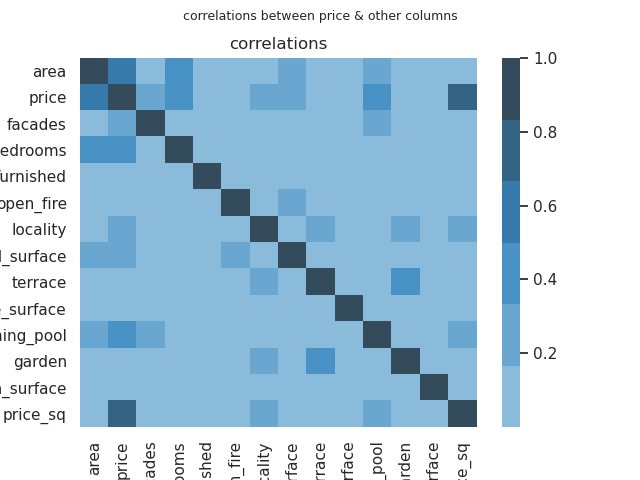
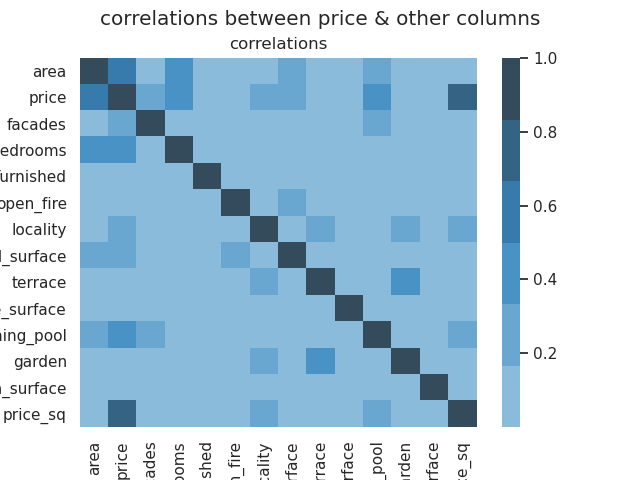
refactoring plots

Changed region(s): [[0.1562, 0.0, 0.8438, 0.0625]]

diff --git a/main.py b/main.py
@@ -1,4 +1,5 @@
 from dfops import DfOps
+from dfops import ChartMaker as Chart
 import numpy as np
 import pandas as pd
 
@@ -10,7 +11,7 @@ def main():
     immo_df_ops = DfOps(df_houses, 20, 15)
 
     # renaming columns for easy of use
-    d_rename_cols_old_new = {
+    rename_cols_old_new_d = {
         "Area [m²]": "area",
         "Price [€]": "price",
         "state of the building": "building_state",
@@ -26,7 +27,7 @@ def main():
         "subtype of property": "property_subtype",
         "garden surface [m²]": "garden_surface"
     }
-    immo_df_ops.rename_columns_dict(d_rename_cols_old_new)
+    immo_df_ops.rename_columns_dict(rename_cols_old_new_d)
     # todo: strip NaN's in facades, area, open_fire
 
     ## pre-processing - keep all NaN values here!
@@ -37,6 +38,7 @@ def main():
     # count nans in rows
     percent_nan_values = df_houses.isna().sum() * 100 / len(df_houses)
     df_nan_values = pd.DataFrame({"nans_percentage": percent_nan_values})
+    df_non_zero_nan_columns = df_nan_values[df_nan_values["nans_percentage"] > 0]
 
     ## processing - data cleaning after having the NaN count
 
@@ -61,7 +63,6 @@ def main():
 
     # drop duplicate rows
     df_houses.drop_duplicates()
-
 
     # convert columns to float
     to_float_columns = ["facades", "bedrooms", "open_fire", "price"]
@@ -104,7 +105,6 @@ def main():
         cat_type = immo_df_ops.create_category(cat_list)
         df_houses[column] = df_houses[column].astype(cat_type)
 
-
     immo_df_ops.print_datatypes()
     immo_df_ops.print_columns_has_nan_check()
 
@@ -116,37 +116,29 @@ def main():
 
     ## start visualisation
 
-    import matplotlib.pyplot as plt
-    import seaborn as sns
-    chart_style = "whitegrid"
-    palette_blue = "Blues_d"
-    colormap = sns.color_palette("Blues_d")
-    save_prefix = "files/charts/"
     ## correlation matrix
-    corr_matrix = df_houses.corr().abs()
-    fig_correlation_heatmap = plt.figure()  # figsize=(width, height)
-    sns.set_theme(style=chart_style)
-    sns.heatmap(corr_matrix, cmap=colormap)
-    fig_correlation_heatmap.suptitle("correlations between price & other columns", fontsize=9)
-    plt.title("correlations")
-    plt.savefig(save_prefix + "correlations_heatmap.png")
+    matrix_chart = Chart(df_houses, "correlation_matrix")
 
-    # visualize NaN values/column before replacing them with a bar plot
-    # df_meaningful_nan dataframe set after reading in csv
-    fig_barplot_nans = plt.figure()
-    sns.set_theme(style=chart_style)
+    matrix_correlations = matrix_chart.get_correlation_matrix()  # df_houses.corr().abs()
+    matrix_chart.set_sns_theme_style()
+    matrix_chart.create_sns_heatmap(matrix_correlations)
+    matrix_chart.set_figure_title("correlations between price & other columns")
+    matrix_chart.set_plot_title("correlations")
+    matrix_chart.save_plot_figure("correlations_heatmap")
+    # matrix_chart.plot_show_figures()
 
-    plt.ylim(0, 100)  # range allowed on y-axis
-    y_start, y_end, y_step = 0, 100, 5
-    plt.yticks(np.arange(y_start, y_end+y_step, y_step))
-    # data = df with only columns that have percentages > 0
-    df_meaningful_nan = df_nan_values[df_nan_values["nans_percentage"] > 0]
+    ## visualize NaN values
+    percentages_chart = Chart(df_non_zero_nan_columns, "nan_percentages_bar_plot")
+    percentages_chart.set_sns_theme_style()
+    percentages_chart.set_plot_ylim(0, 100)
+    percentages_chart.set_yticks(0, 100, 5)
 
     # create bar plot for NaN averages
-    sns.barplot(x=df_meaningful_nan.index, y='nans_percentage', data=df_meaningful_nan, palette=palette_blue)
-    fig_barplot_nans.suptitle("NaN %/column before replacing NaN values with mean()/False", fontsize=9)
-    plt.title("NaN percentage per column")
-    plt.savefig(save_prefix + "nan_percentages_bar_plot.png")
+    percentages_chart.create_sns_barplot("nans_percentage")
+    percentages_chart.set_figure_title("NaN % per column before cleaning data")
+    percentages_chart.set_plot_title("NaN percentage per column")
+    percentages_chart.save_plot_figure("percentages_nan_per_column")
+    # percentages_chart.plot_show_figures()
 
     # region data
     # a new column region is created based on following conditions
@@ -165,7 +157,7 @@ def main():
     brussels_mean = df_houses[df_houses["region"] == "brussels"].mean()
     wallonia_mean = df_houses[df_houses["region"] == "wallonia"].mean()
     flanders_mean = df_houses[df_houses["region"] == "flanders"].mean()
-    belgian_mean  = df_houses.mean()
+    belgian_mean = df_houses.mean()
     region_means = {"brussels": brussels_mean, 'wallonia': wallonia_mean, 'flanders': flanders_mean, 'belgium': belgian_mean}
     df_region_means = pd.DataFrame(region_means)
     mean_price_per_region = df_region_means.loc["price", df_region_means.columns]
@@ -176,7 +168,13 @@ def main():
     belgium     4.828550e+05
     Name: price, dtype: float64
     """
-    # PLOTTING SERIES DON'T DEFINE DATA=SOME_VAR this fix works for barplot but not for catplot
+
+    ## stopped refactoring here
+    from matplotlib import pyplot as plt
+    import seaborn as sns
+
+    palette_blue = "Blues_d"
+    save_prefix = "files/charts/"
     x = list(mean_price_per_region.index)
     print(x)
     sns.catplot(

diff --git a/dfops.py b/dfops.py
@@ -64,9 +64,6 @@ class DfOps:
             list(columns)
         self.apply_fillna_to_column(columns, replace_nan_value)
 
-    # def convert_nan_to_datatype(self, columns, replace_nan_val, datatype):
-    #     self.convert_cols_to_datatype_and_do_fillna(columns, replace_nan_val, datatype)
-
     # https://hashtaggeeks.com/posts/pandas-categorical-data.html
     @staticmethod
     def create_category(category_list):
@@ -93,3 +90,62 @@ class DfOps:
         print("----- columns with missing values = True -------->")
         print(self.df.isnull().any())
         print("----------- missing values check END ------------>")
+
+
+import matplotlib.pyplot as plt
+import seaborn as sns
+import pathlib
+
+
+class ChartMaker:
+    default_path = pathlib.PurePath("files", "charts")
+
+    def __init__(self, data, title, cm="Blues_d", palette="Blues_d", style="whitegrid"):
+        self.data = data
+        self.chart_style = style
+        self.palette = palette
+        self.cm = sns.color_palette(cm)
+        self.title = title
+        self.plot = plt
+        self.figure = plt.figure()
+
+    def get_correlation_matrix(self):
+        if isinstance(self.data, pd.DataFrame):
+            return self.data.corr().abs()
+
+    def set_sns_theme_style(self):
+        sns.set_theme(style=self.chart_style)
+
+    # https://seaborn.pydata.org/generated/seaborn.heatmap.html?highlight=heatmap#seaborn.heatmap
+    def create_sns_heatmap(self, matrix):
+        sns.heatmap(matrix, cmap=self.cm)
+
+    # https://seaborn.pydata.org/generated/seaborn.barplot.html?highlight=barplot#seaborn.barplot
+    def create_sns_barplot(self, y_title: str):
+        sns.barplot(x=self.data.index, y=y_title, data=self.data, palette=self.palette)
+
+    def set_figure_title(self, title: str, fontsize=9):
+        self.figure.suptitle(title)
+
+    def set_plot_title(self, title: str):
+        self.plot.title(title)
+
+    def save_plot_figure(self, filename: str):
+        save_final = pathlib.PurePath(self.default_path, filename)
+        self.plot.savefig(save_final)
+
+    def set_plot_figure_fize(self, x: int, y: int):
+        self.figure.figsize(x, y)
+
+    def plot_show_figures(self):
+        self.plot.show()
+
+    def set_plot_ylim(self, y_range_start: int, y_range_stop: int):
+        # range allowed on y-axis
+        self.plot.ylim(y_range_start, y_range_stop)
+
+    def set_plot_ylabel(self, y_label: str):
+        self.plot.ylabel(y_label)
+
+    def set_yticks(self, start: int, stop: int, step: float):
+        self.plot.yticks(np.arange(start, stop, step=step))
